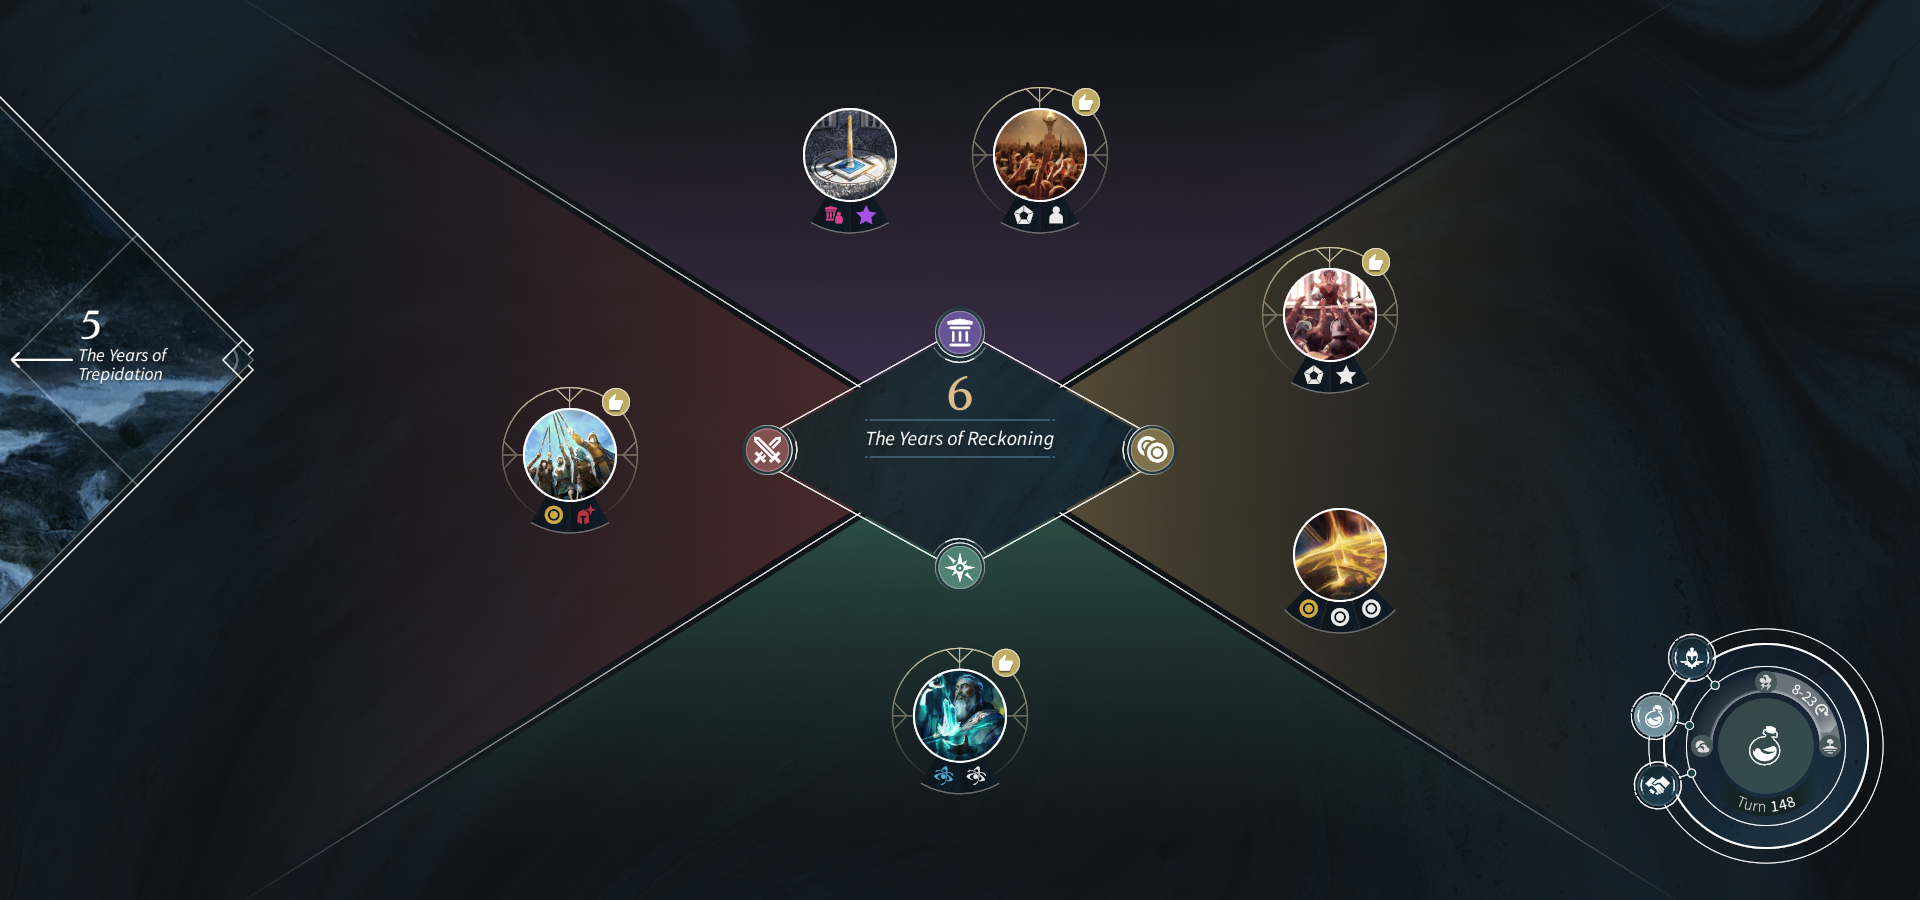
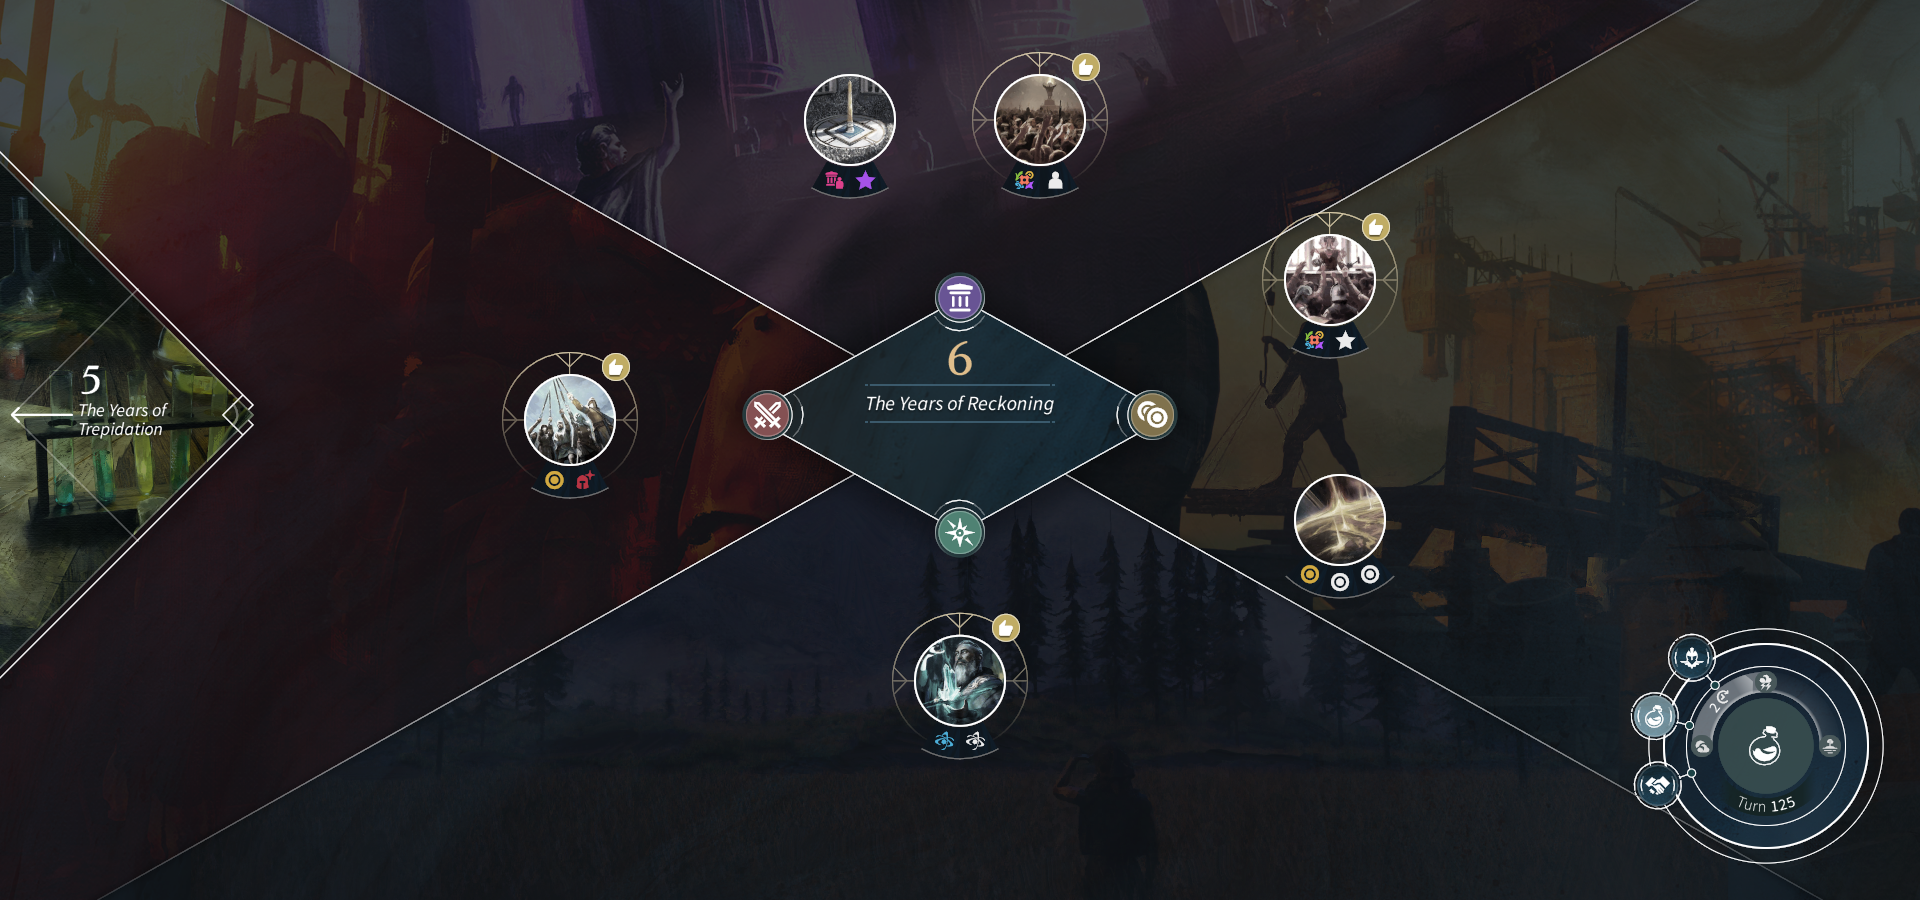
Added: Aspect background images Fix: default background for legacy factions

diff --git a/frontend/src/components/TopContainer/TopContainer.tsx b/frontend/src/components/TopContainer/TopContainer.tsx
@@ -5,7 +5,6 @@ import { NavLink } from 'react-router-dom';
 import {getBackgroundUrl} from "@/utils/getBackgroundUrl";
 
 const factions = ["Kin", "Lords", "Tahuk", "Aspect", "Necrophage"];
-const availableFactions = ["Kin", "Lords", "Tahuk", "Necrophage"];
 const MAX_ERA = 6;
 
 // Define the application's main routes
@@ -55,21 +54,19 @@ const TopContainer: React.FC = () => {
 
             <div className="faction-selector">
                 {factions.map(f => {
-                    const isAvailable = availableFactions.includes(f);
                     return (
                         <button
                             key={f}
-                            className={`${f === selectedFaction ? 'active' : ''} ${!isAvailable ? 'disabled' : ''}`}
+                            className={f === selectedFaction ? "active" : ""}
                             onClick={() => {
-                                if (!isAvailable) return;
                                 setSelectedFaction(f);   // change faction
                                 setSelectedTechs([]);    // clear selected techs
                             }}
-                            title={!isAvailable ? "Coming Soon" : ""}
                         >
                             {f}
                         </button>
                     );
+
                 })}
             </div>
         </header>

diff --git a/frontend/src/utils/getBackgroundUrl.ts b/frontend/src/utils/getBackgroundUrl.ts
@@ -1,5 +1,13 @@
-
 export const getBackgroundUrl = (faction: string, era: number) => {
-    if (era === 6) return '/graphics/techEraScreens/default_era_6.png';
+    const legacyBackground = ["Kin", "Lords", "Tahuk", "Necrophage"];
+
+    // Check for era 6 and legacy faction
+    if (era === 6) {
+        if (legacyBackground.includes(faction)) {
+            return '/graphics/techEraScreens/default_era_6_old.png';
+        }
+        return '/graphics/techEraScreens/default_era_6.png';
+    }
+
     return `/graphics/techEraScreens/${faction.toLowerCase()}_era_${era}.png`;
 };
